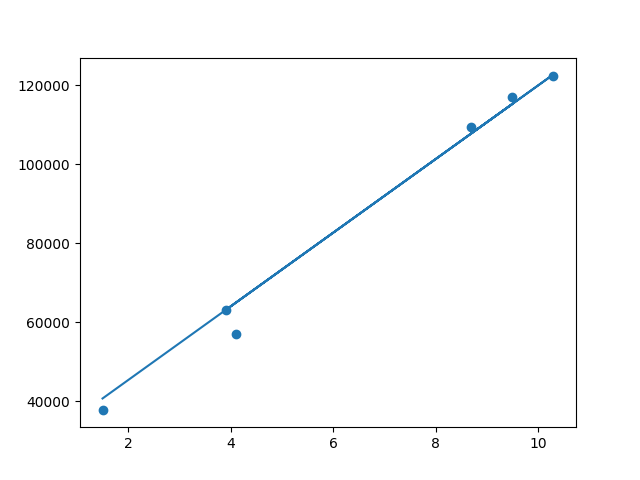
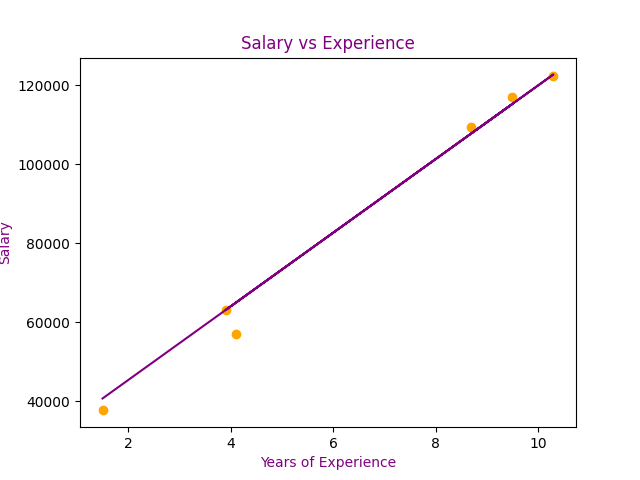
Adding style to plot

diff --git a/main.py b/main.py
@@ -20,6 +20,9 @@ regressor.fit(X_train, y_train)
 y_pred = regressor.predict(X_test)
 
 # Visualizing the test set results
-plt.scatter(X_test, y_test)
-plt.plot(X_test, y_pred)
+plt.scatter(X_test, y_test, color='orange')
+plt.plot(X_test, y_pred, color='purple')
+plt.title('Salary vs Experience', color='purple')
+plt.xlabel('Years of Experience', color='purple')
+plt.ylabel('Salary', color='purple')
 plt.savefig('plot.png')
